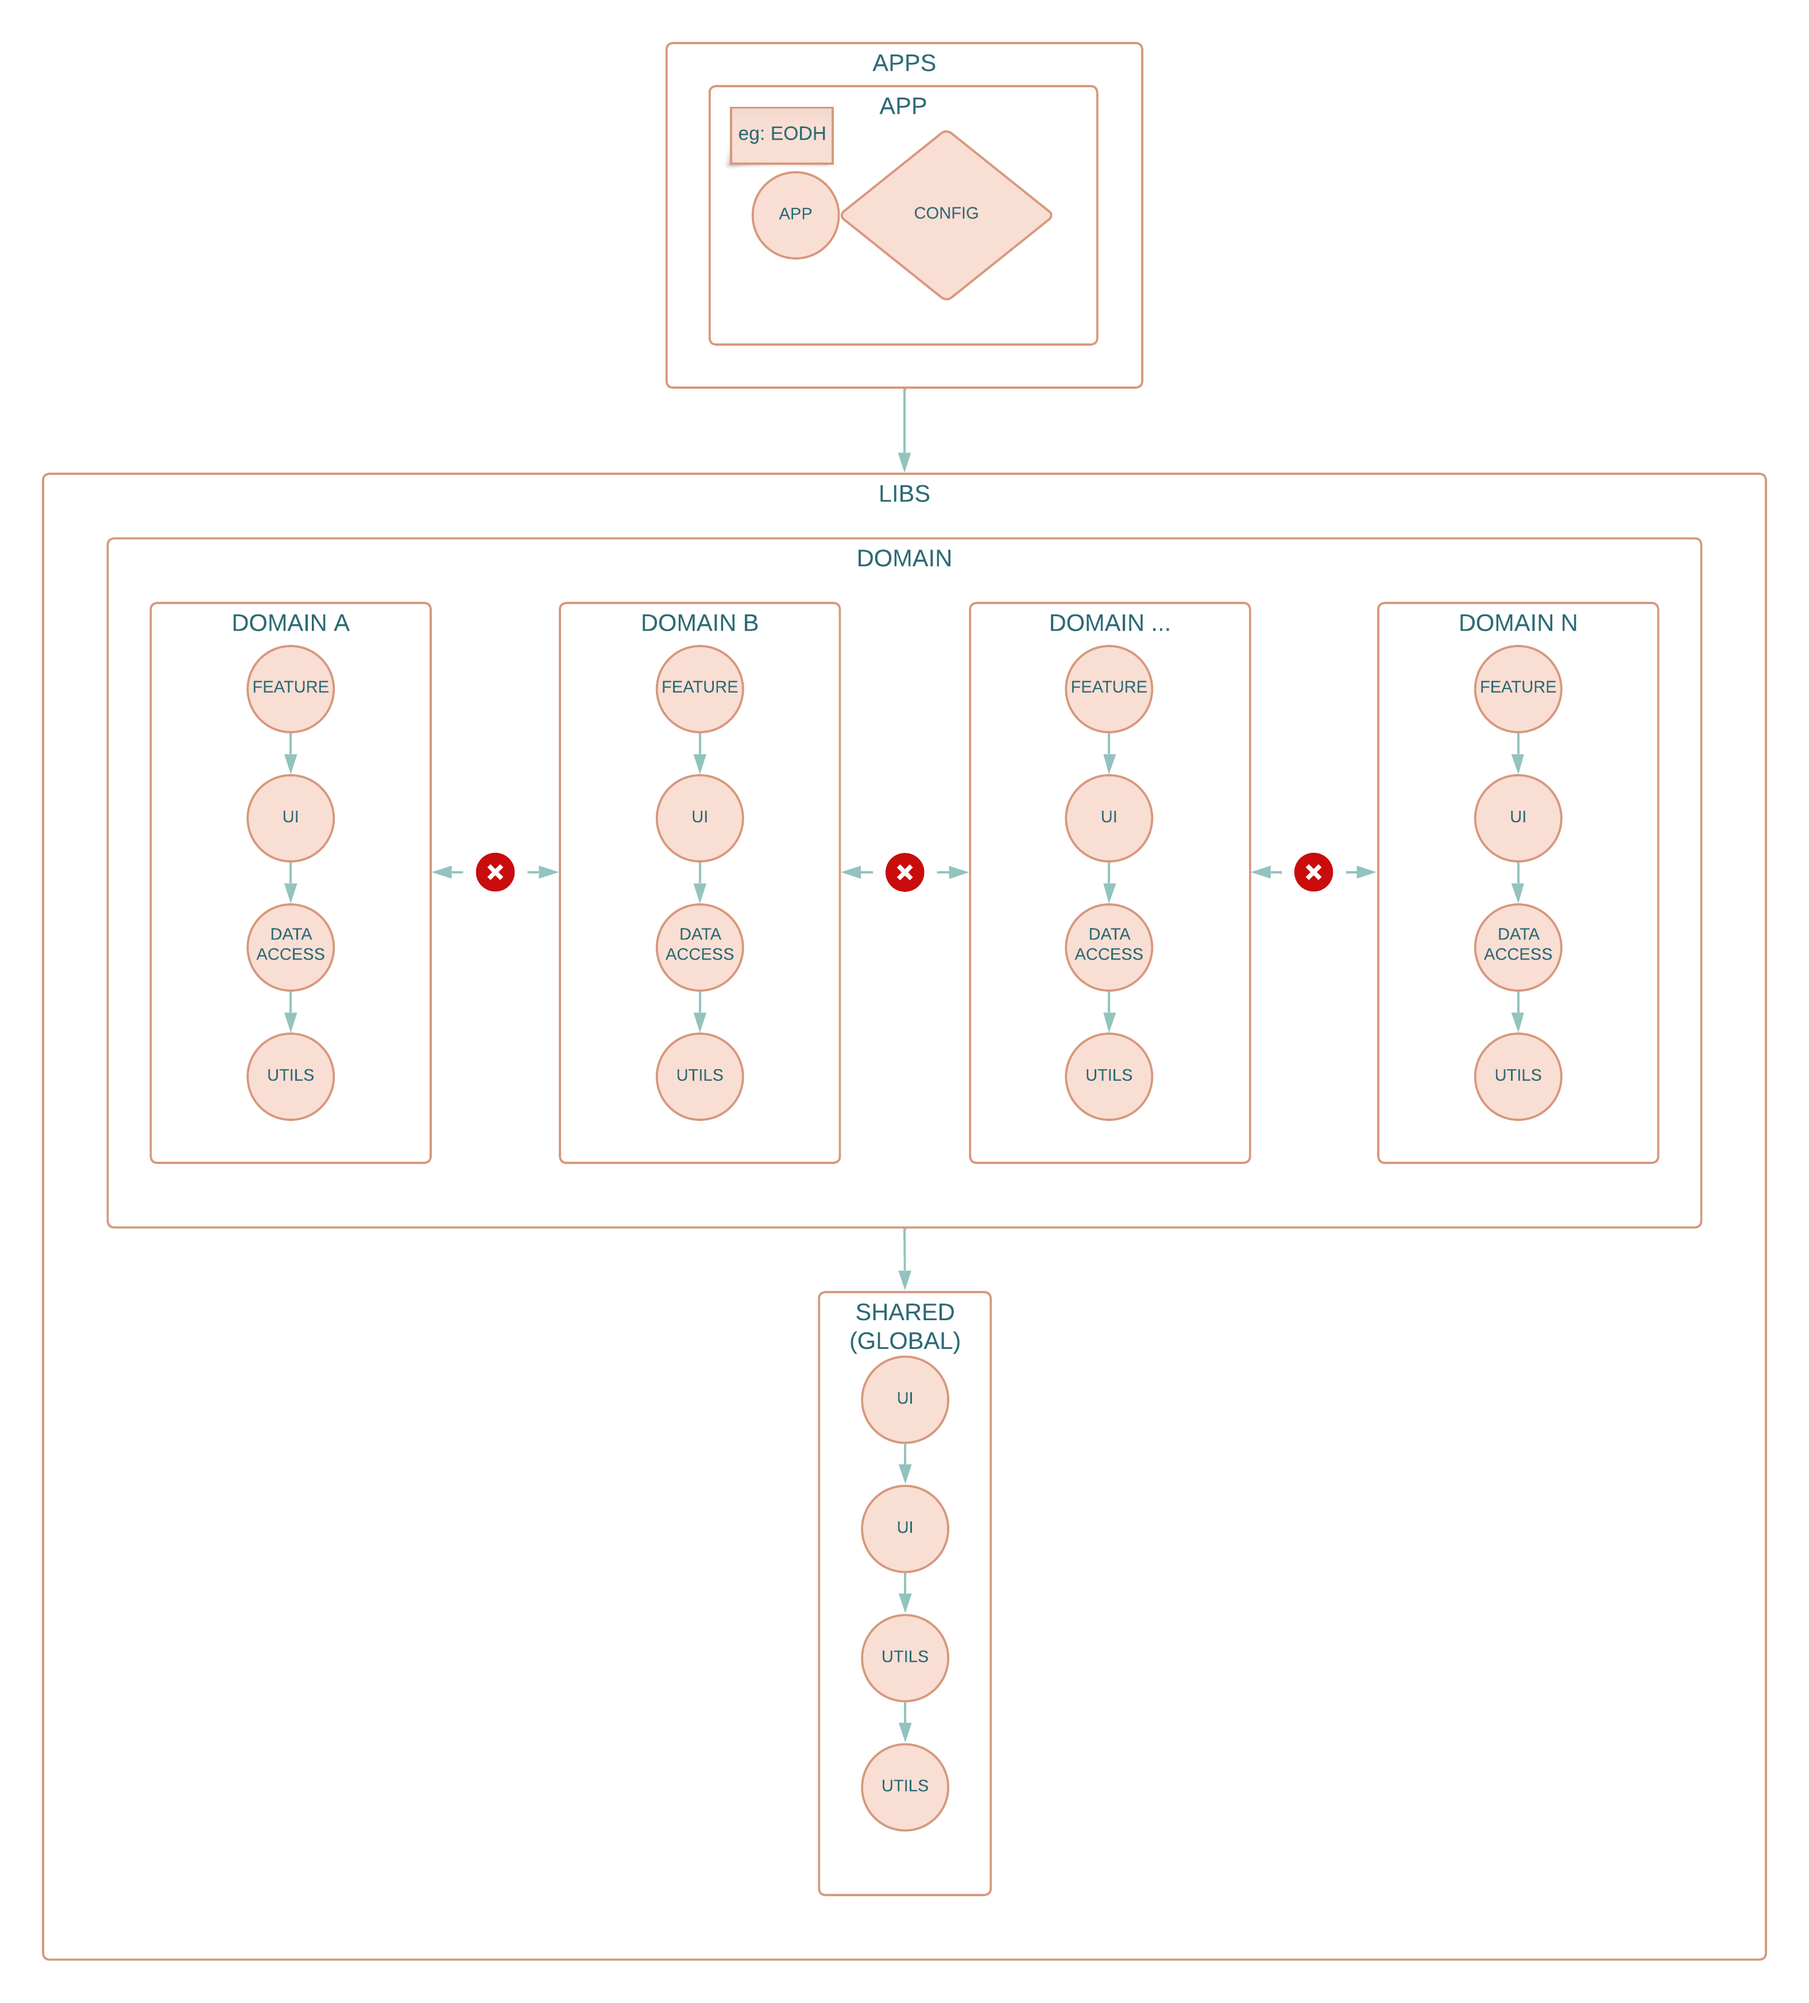
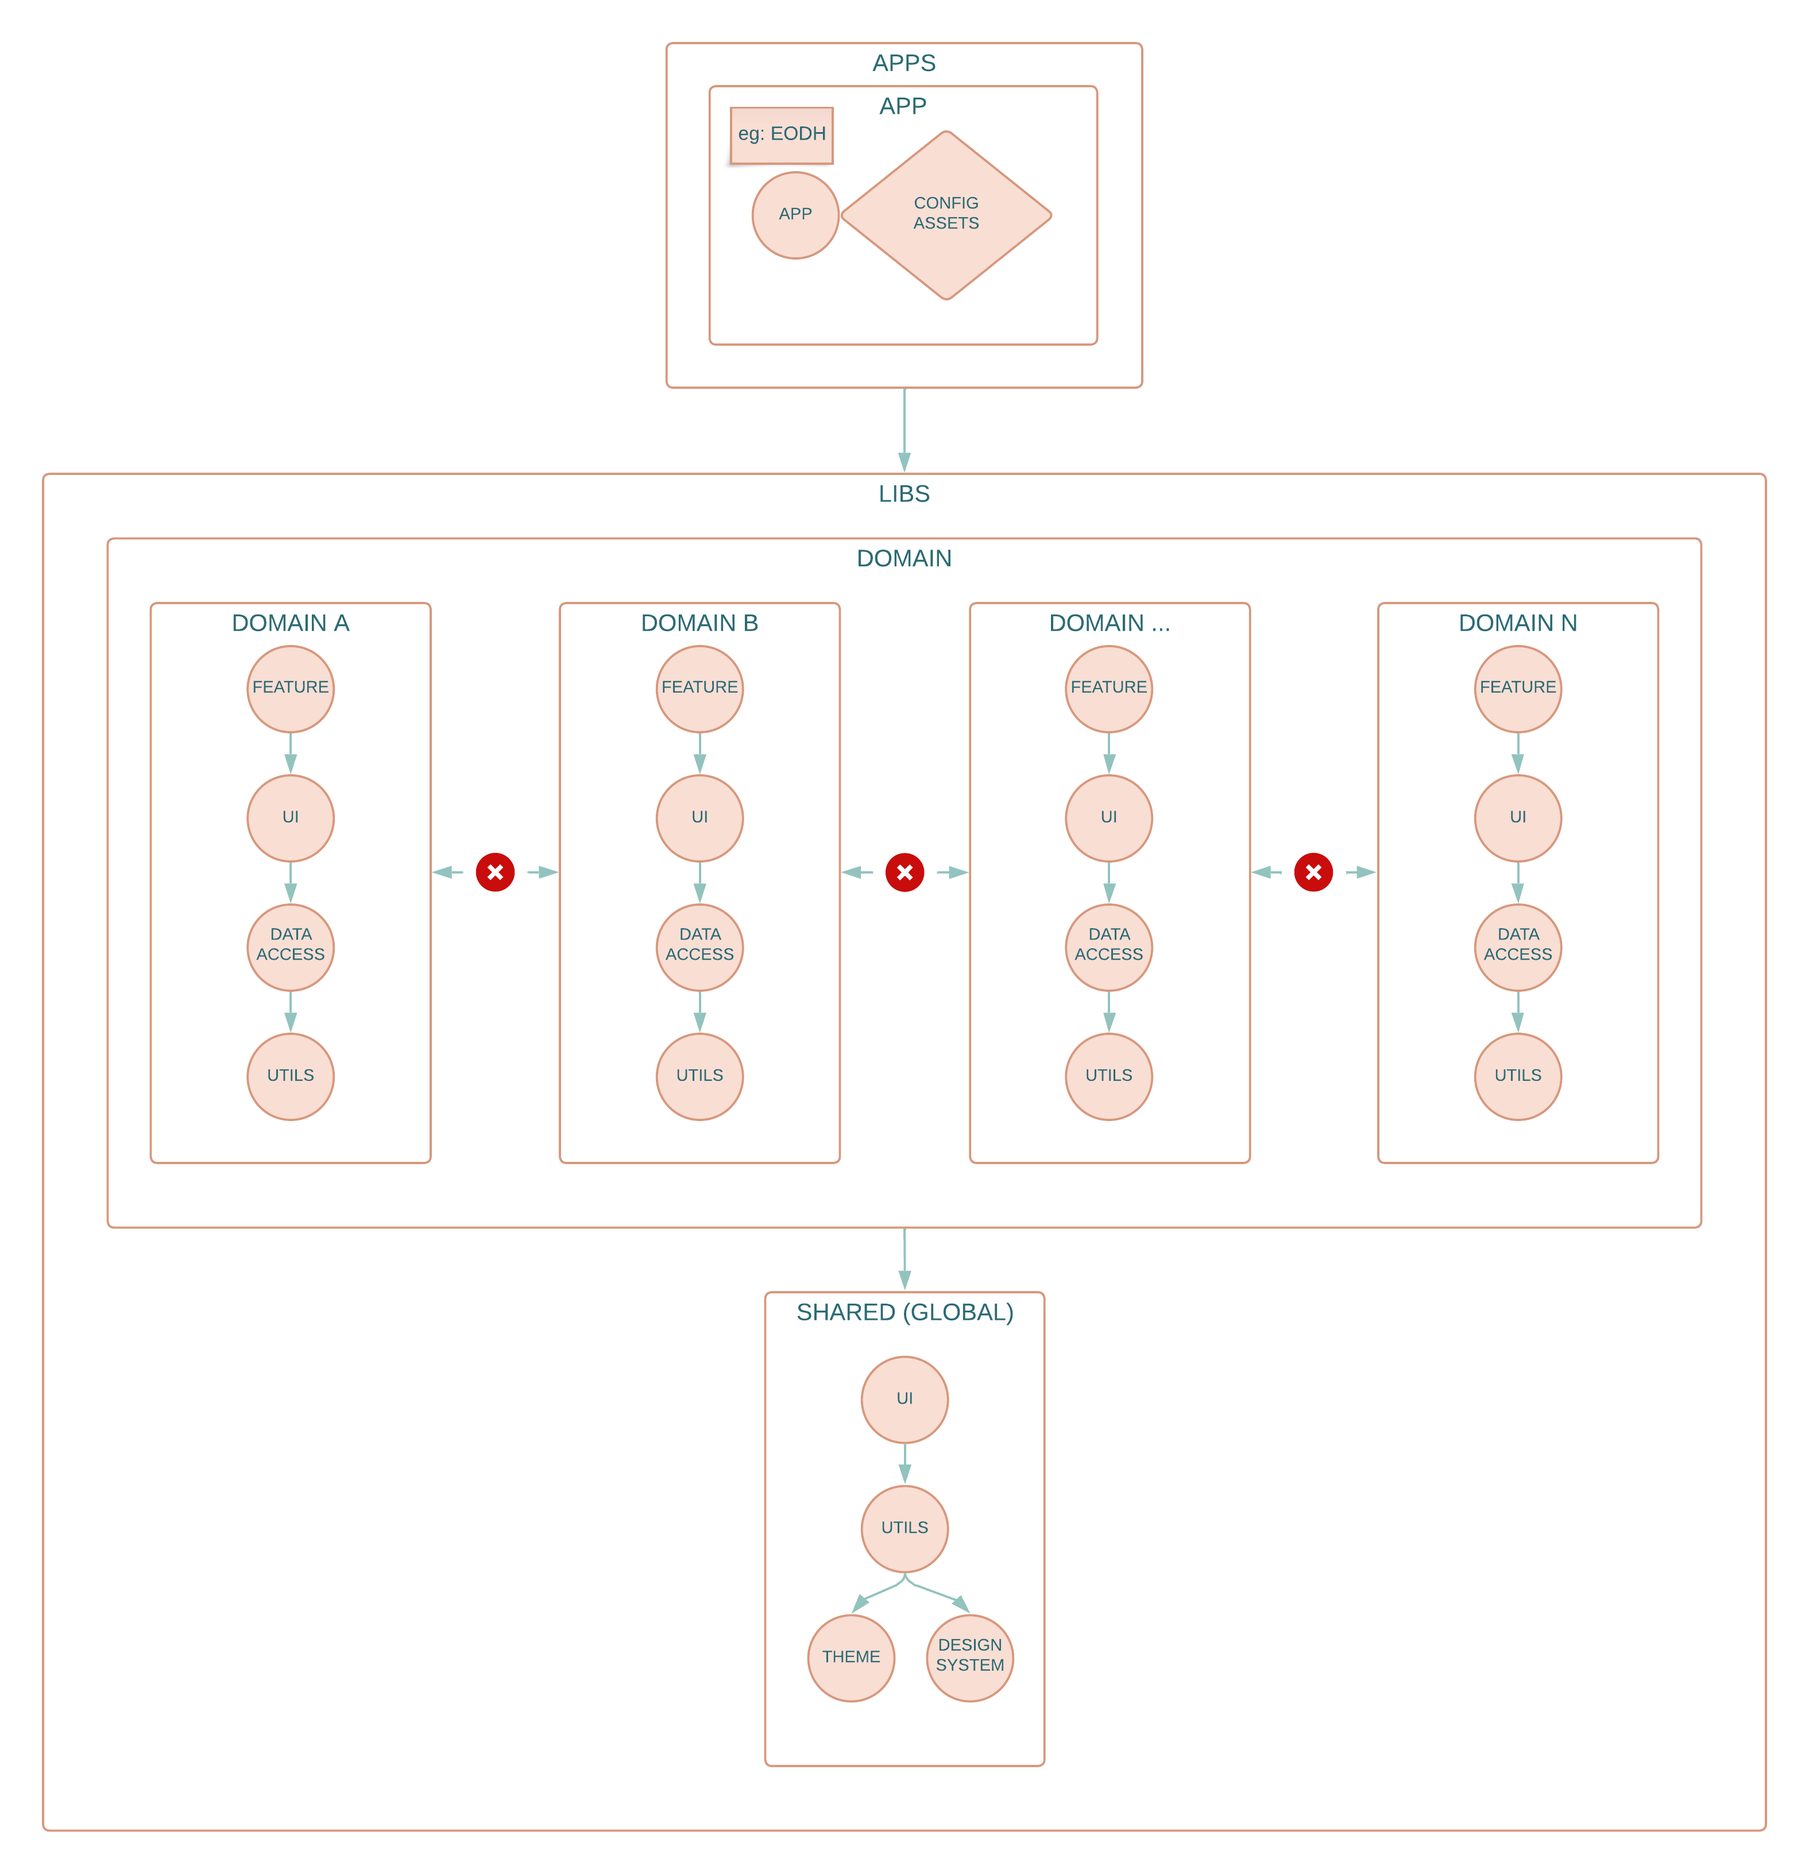
fix: update documentation

diff --git a/docs/architecture.md b/docs/architecture.md
@@ -19,8 +19,12 @@ Check `.eslintrc.json` file for detailed configuration,
 # Architecture
 
 Project follows DDD (Domain Driven Design) pattern and extends [NX approach](https://nx.dev/more-concepts/library-types) to enforce module boundaries.
-In `NX` there are four types of libraries:
+There are eight types of libraries:
 
+- `shared/desing-system` - shared domain only
+- `shared/theme` - shared domain only
+- `shared/utils` - shared domain only
+- `shared/ui` - shared domain only
 - `utils`
 - `data-access`
 - `ui`
@@ -32,6 +36,59 @@ In `NX` there are four types of libraries:
 
 ## Types of libraries
 
+### Shared Design System
+
+#### What is it?
+
+UI components and utility functions for Design System.
+
+#### Naming Convention
+
+There should be only one library design-system, it should be placed under `shared` directory.
+
+#### Dependency Constraints
+
+A `design-system` library can't use other libraries.
+
+### Shared Theme
+
+#### What is it?
+
+Theme configuration and utility functions.
+
+#### Naming Convention
+
+theme (if nested), or `theme-*` (e.g., `theme-eodh`)
+
+#### Dependency Constraints
+
+A `theme` library can't use other libraries.
+
+### Shared Utils
+
+#### What is it?
+
+A utility library contains low level code used by many libraries.
+Often there is no framework-specific code and the library is simply a collection of utilities or pure functions.
+
+#### Dependency Constraints
+
+A `shared-utils` library can't use other libraries.
+
+### Shared UI
+
+#### What is it?
+
+Sharable UI components used across one or multiple applications.
+
+#### Naming Convention
+
+util (if nested), or `ui-*` (e.g., `ui-button`)
+
+#### Dependency Constraints
+
+A `shared-ui` library can depend `shared-design-system` and `shared-utils` libraries.
+
 ### Utils
 
 #### What is it?
@@ -41,6 +98,14 @@ A utility library contains low level code used by many libraries. Often there is
 #### Naming Convention
 
 util (if nested), or `util-*` (e.g., `util-testing`)
+
+#### Dependency Constraints
+
+A `utils` library can depend on `shared-utils` libraries.
+
+#### Utils vs Shared Utils
+
+Code in `utils` should be domain specific where in `shared-utils` it should be generic (used by other domains/applications).
 
 ### Data-access
 
@@ -56,7 +121,7 @@ data-access (if nested) or `data-access-*` (e.g. `data-access-seatmap`)
 
 #### Dependency Constraints
 
-A data-access library can depend `util` libraries.
+A `data-access` library can depend `shared-utils` and `utils` libraries.
 
 ### UI
 
@@ -71,7 +136,11 @@ ui (if nested) or `ui-*` (e.g., `ui-buttons`)
 
 #### Dependency Constraints
 
-A ui library can depend on `util` or `data-access` libraries.
+A `ui` library can depend on `shared-design-system`, `shared-utils`, `shared-ui`, `utils` or `data-access` libraries.
+
+#### UI vs Shared UI
+
+Code in `ui` should be domain specific where in `shared-ui` it should be generic (used by other domains/applications).
 
 ### Feature
 
@@ -86,57 +155,37 @@ feature (if nested) or feature-\* (e.g., feature-home).
 
 #### Dependency Constraints
 
-A feature library can depend on `ui`, `data-access` or `utils` libraries.
+A feature library can depend on `shared-design-system`, `shared-utils`, `shared-ui`, `utils`, `data-access` or `ui` libraries.
 
 ## Multiple dimensions
 
 There are multiple dimensions used to enforce `project` dependencies.
 
-> Depends on the project, 1 (app) 3 (lib) or 4 (lib/shared) dimensions should be used to properly enforce module boundaries
+> Each project should have two dimensions.
 
-### First dimension - app & library
+### First dimension - type
 
-Distinction between library and application
+Distinction between library type:
 
-- `type:lib` - project tagged with `type:lib` can use another projects tagged only with `type:lib`
-- `type:app` - project tagged with `type:app` can use another projects tagged only with `type:lib`
+- `type:shared/design-system`
+- `type:shared/theme`
+- `type:shared/utils`
+- `type:shared/ui`
+- `type:utils`
+- `type:data-access`
+- `type:ui`
+- `type:feature`
 
-### Second dimension - library type
+### Second dimension - scope vs scope shared
 
-- `lib:shared:theme`,
-- `lib:shared:utils`,
-- `lib:shared:ui`,
-- `lib:domain:utils`,
-- `lib:domain:utils:shared`,
-- `lib:domain:data-access`,
-- `lib:domain:ui`,
-- `lib:domain:ui:shared`,
-- `lib:domain:feature`,
+Distinction between `shared` (across all domains) and `scope` (domain specific code)
 
-### Third dimension - domain vs domain shared
+- `scope:shared` - tag which allows to share across all domains
+- `scope:*`, where `*` should be changed to specific domain name
 
-Distinction between `shared` (across all domains) and `domain` specific code
+Currently, there is 1 domain:
 
-- `domain:shared` - tag which allows to share across all domains
-- `domain:*`, where `*` should be changed to specific domain name
-
-Currently, there are 4 domains:
-
-- `account`
-- `asset`
-- `alert`
-- `system-map`
-
-### Fourth dimension - global shared additional rules
-
-This is only applied to libraries placed in `libs/shared`.
-Additional, 4th dimension is used to enforce proper structure for libraries in this directory.
-
-- `shared:theme` - projects tagged with `shared:theme` can only use other projects tagged with this tag,
-- `shared:utils/common` - projects tagged with `shared:utils/common` can not use other projects,
-- `shared:utils` - projects tagged with `shared:utils` can only use other projects tagged with: `shared:utils/common`,
-- `shared:ui/common` - projects tagged with `shared:ui/common` can use other projects tagged with: `lib:shared:theme`,
-- `shared:ui` - projects tagged with `shared:ui` can only use other projects tagged with tags: `shared:theme`, `shared:utils/common`, `shared:utils`, `shared:ui/common`,
+- `map`
 
 # Project vocabulary
 

diff --git a/README.md b/README.md
@@ -10,11 +10,8 @@
   - [Required steps on pipelines](#Required-steps-on-pipelines)
 - [Testing](#Testing)
   - [Unit & integration tests](#Unit--integration-tests)
-  - [Snapshot testing](#Snapshot-testing)
-- [Authentication](#Authentication)
-  - [Authentication library](#Authentication-library)
-  - [Authentication flow](#Authentication-flow)
-    - [Multi-tenancy (multiple organization support)](#Multi-tenancy-multiple-organization-support)
+  - [Storybook tests](#Storybook-tests)
+  - [E2E tests](#E2E-tests)
 - [Folder structure](#Folder-structure)
 - [Naming convention](#Naming-convention)
   - [File naming convention](#File-naming-convention)
@@ -40,10 +37,10 @@ Run `husky install` manually if you have problems with husky.
 
 - `npm run start` - starting application in dev mode
 - `npm run build` - build production version
-- `npm run cache:clear` - clear NX cache
 - `npm run test` - run all tests
-- `npm run test:e2e` - run e2e tests
 - `npm run test:unit` - run unit and integration tests
+- `npm run test:storybook` - run storybook tests
+- `npm run test:e2e` - run e2e tests
 - `npm run lint:check` / `npm run lint:fix` - running eslint
 - `npm run format:check` / `npm run format:fix` - running prettier
 - `npm run code:check` / `npm run code:fix` - eslint + prettier
@@ -69,12 +66,16 @@ GitHub's pipelines are used for ci/cd. Check `.github` directory for more detail
 All linters and tests has to pass on pipelines.
 Before sending any changes make sure you run those commands:
 
-- `npm run test` - check if all test pass
+- `npm run test:unit` - check if all test pass
 - `npm run code:fix` - format code
 
 # Testing
 
-Run `npm run test:unit` command to run tests for all project.
+- Run `npm run test` command to run tests for all project.
+- Run `npm run test:unit` command to run unit tests for all project.
+- Run `npm run test:storybook` command to run storybook tests for all project.
+- Run `npm run test:e2e` command to run e2e tests for all project.
+
 `vitest` is used as a test engine
 
 ### Unit & integration tests
@@ -83,9 +84,14 @@ There is no differentiation between unit and integration tests, all those tests 
 Unit tests with mocks are used for more technical stuff like utility libraries.
 Integration tests are used for business scenarios.
 
-### Snapshot testing
+### Storybook tests
 
-For updating snapshots run `test:snapshot:update` command.
+Storybook tests are somewhere in between integration and e2e tests.
+They allow us test full flow of the application in the isolation.
+
+### E2E tests
+
+E2E tests are used to test application end-to-end (using real data).
 
 # Folder structure
 
@@ -115,12 +121,19 @@ Conventional commits convention is used as commits naming convention. Visit the 
 
 # Project vocabulary
 
-### Architecture
+## Domain
+
+1. CWL - Common Workflow Language. Links: 2. [Basics](https://cwl-for-eo.github.io/guide/) 3. [Standard](https://www.commonwl.org/v1.2/CommandLineTool.html) 4. [CWL 1.2](https://github.com/common-workflow-language/cwl-v1.2) 5. [User Guide](https://www.commonwl.org/user_guide)
+2. STAC, links: 5. [STAC Index](https://stacindex.org) 6. [EODH STAC BROWSER](https://github.com/UKEODHP/stac-browser) 7. [eodhp-ades-demonstration](https://github.com/UKEODHP/eodhp-ades-demonstration/blob/main/water-bodies.http) 8. [Earth Observation Application Package](https://github.com/eoap) 9. [STAC API - Collection Search](https://github.com/stac-api-extensions/collection-search)
+
+## Architecture
 
 1. `Feature layer` - A page with routing
 2. `UI layer` - Small feature
 3. `Data access layer` - API/data caching part of the application
 4. `Utils layer` - utility libraries
+5. `Theme layer` - theme configuration and utility functions
+6. `Design System layer` - components related to design system
 
 **Dependencies and relations between layers** are described in [docs/architecture.md](./docs/architecture.md)
 
